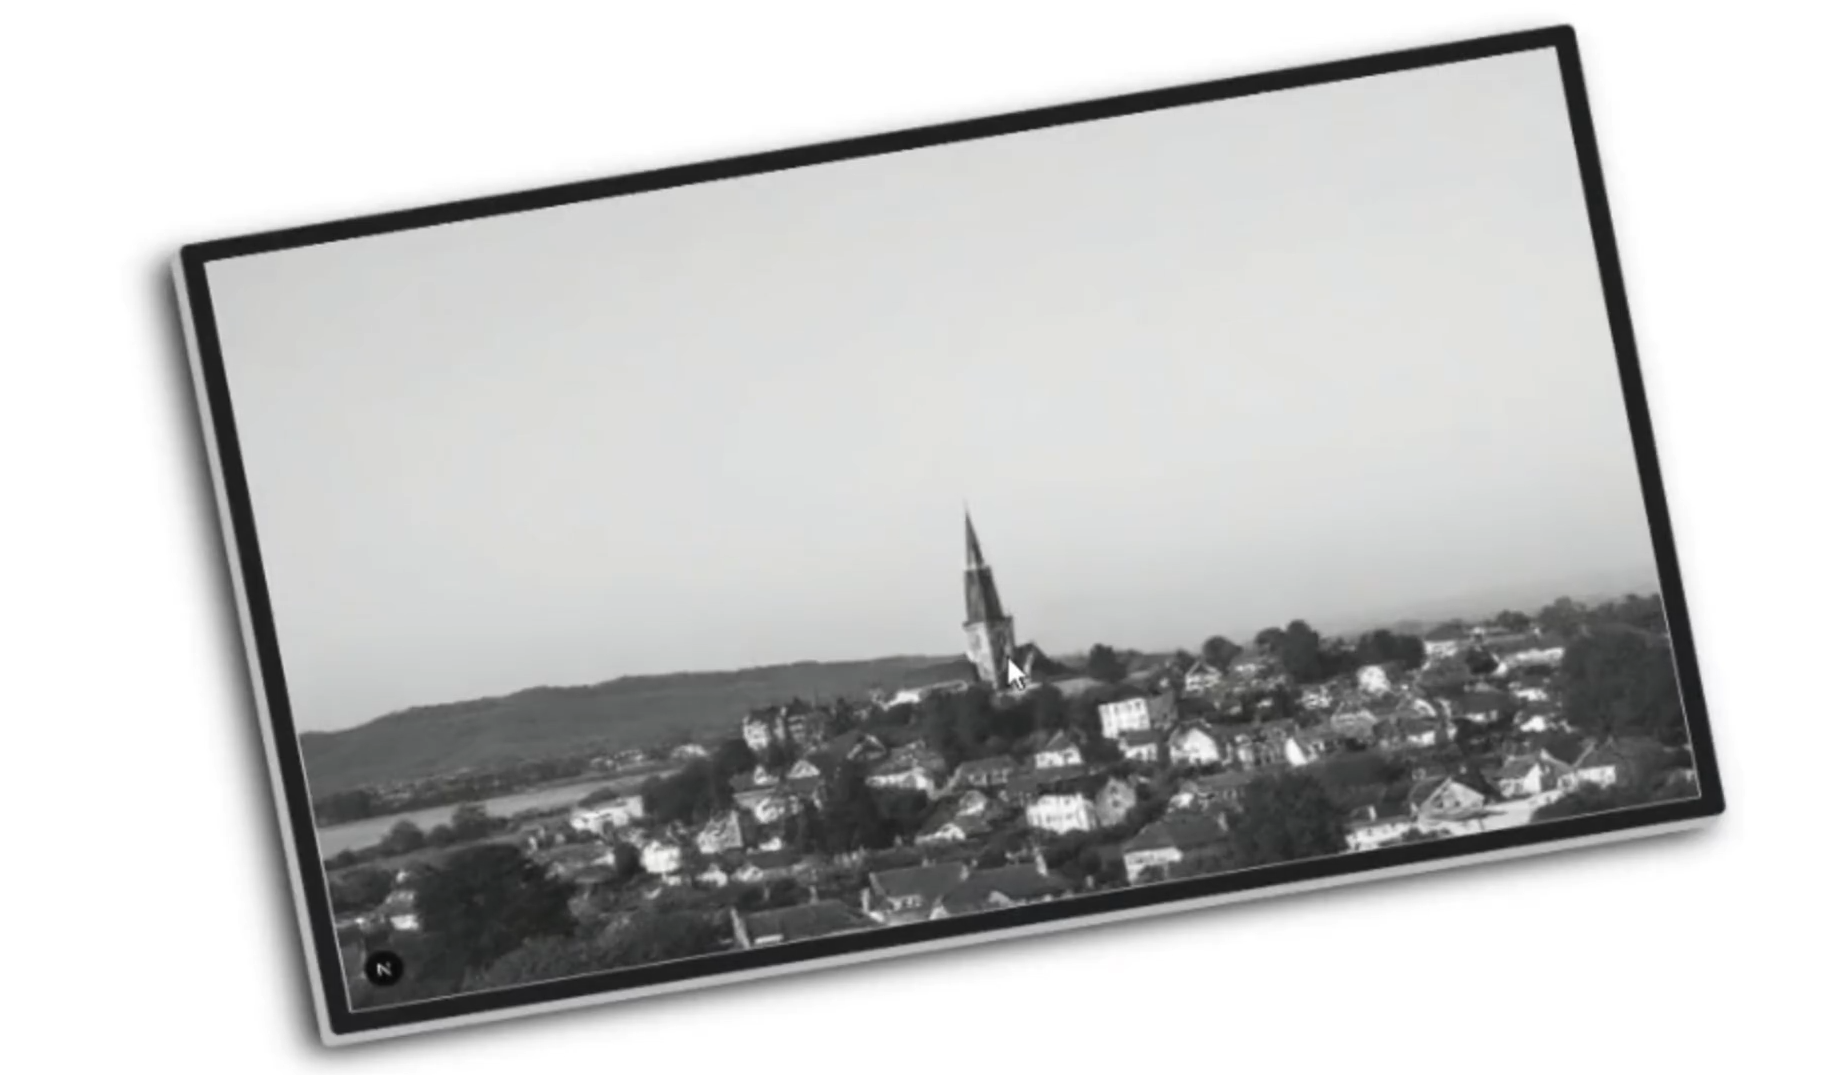
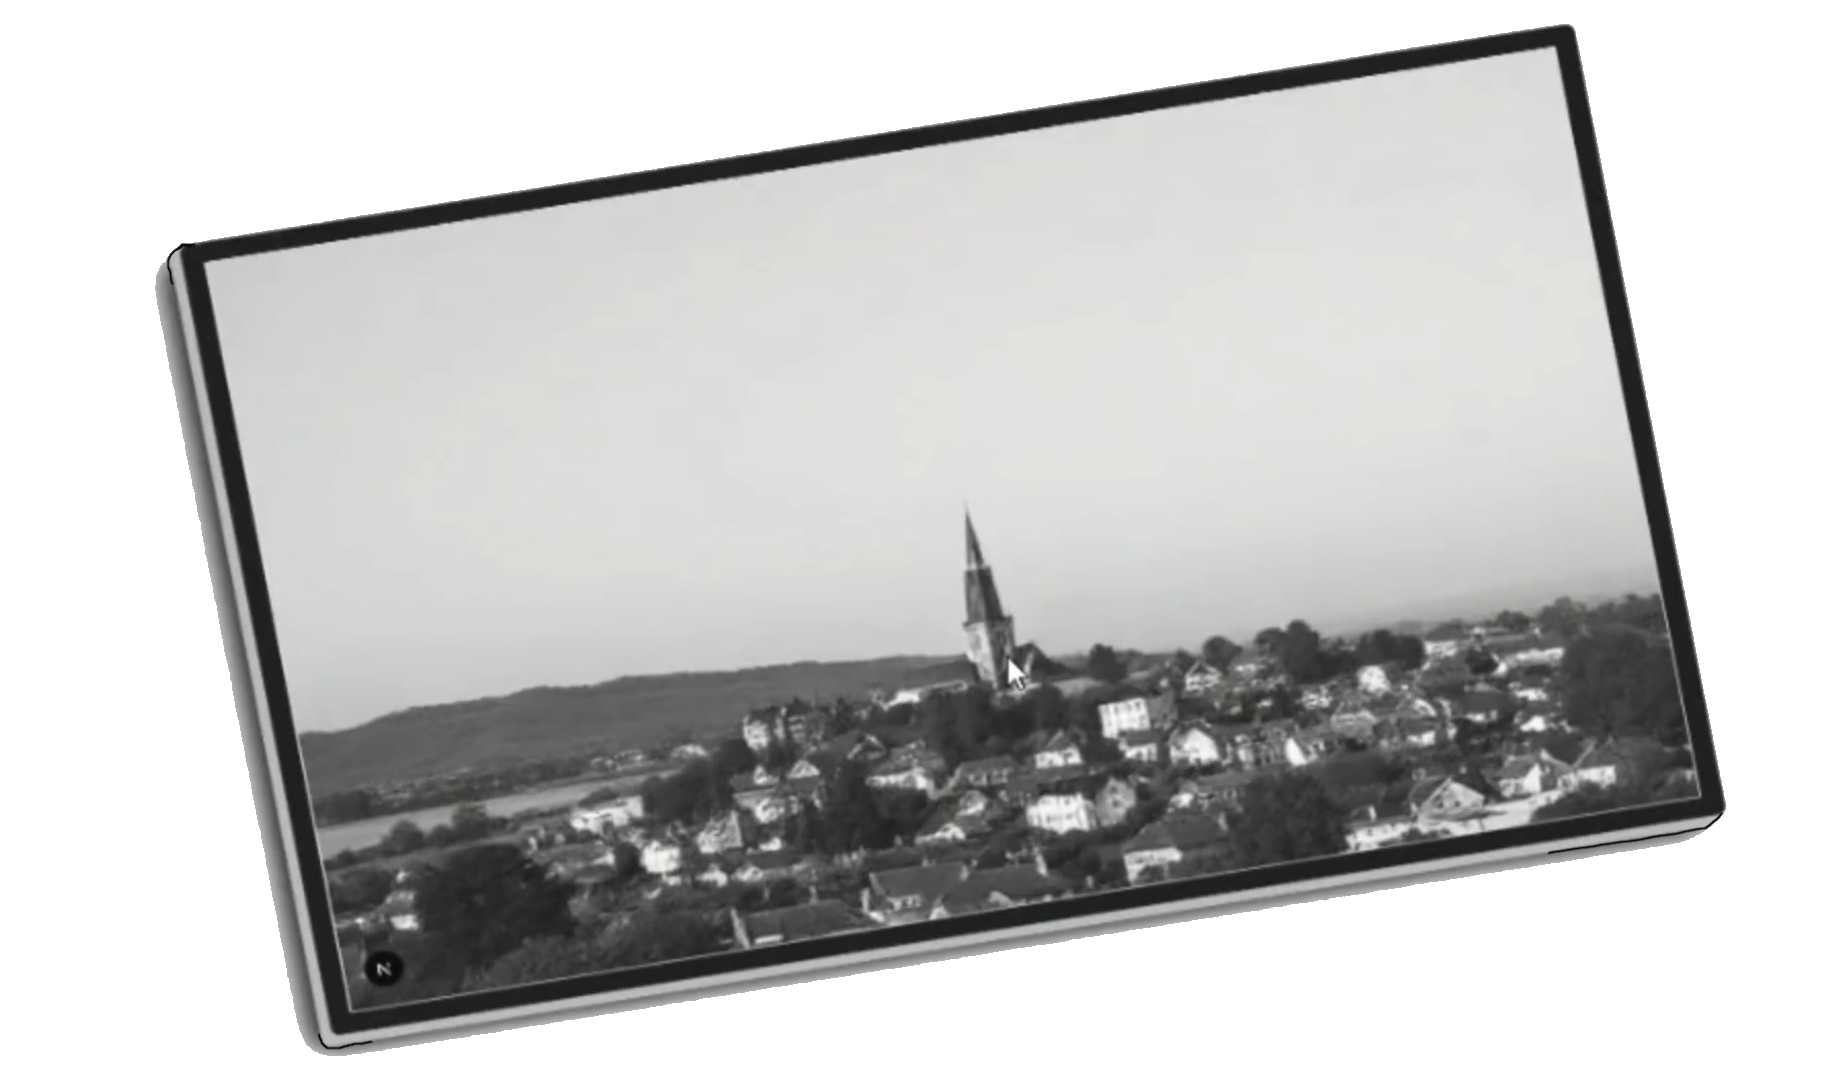
Updated aroundu overview image and combined tablet, desktop and mobile viewer components into a single component

diff --git a/src/features/projects/components/project.js b/src/features/projects/components/project.js
@@ -6,9 +6,7 @@ import Highlight from './highlight';
 import VimeoPlayer from './vimeoPlayer';
 import EndDescription from './endDescription'
 import BackToTop from '../../../Components/backToTop';
-import MobileViewer from './mobileViewer';
-import TabletViewer from './TabletViewer';
-import DesktopViewer from './DesktopViewer';
+import DeviceViewer from './DeviceViewer';
 
 const Project = () => {
     const { slug } = useParams();
@@ -191,15 +189,10 @@ const Project = () => {
                             </div>
                         </div>
                         <div className="device-viewer-container">
-                            {selectedDevice === 'mobile' && (
-                                <MobileViewer site={project.fields.links.link[1]} />
-                            )}
-                            {selectedDevice === 'tablet' && (
-                                <TabletViewer site={project.fields.links.link[1]} />
-                            )}
-                            {selectedDevice === 'desktop' && (
-                                <DesktopViewer site={project.fields.links.link[1]} />
-                            )}
+                            <DeviceViewer
+                                device={selectedDevice}
+                                site={project.fields.links.link[1]}
+                            />
                         </div>
                     </>
                 )}

diff --git a/src/features/home/components/inDevelopment.js b/src/features/home/components/inDevelopment.js
@@ -2,9 +2,7 @@ import { useState } from 'react';
 import '../../../assets/css/device-viewer.css';
 import '../../../assets/css/inDevelopment.css';
 import inDevelopmentData from '../../../data/inDevelopment.json';
-import MobileViewer from '../../projects/components/mobileViewer';
-import TabletViewer from '../../projects/components/TabletViewer';
-import DesktopViewer from '../../projects/components/DesktopViewer';
+import DeviceViewer from '../../projects/components/DeviceViewer';
 
 const InDevelopment = () => {
     const [selectedDevice, setSelectedDevice] = useState('desktop');
@@ -40,9 +38,7 @@ const InDevelopment = () => {
                         </button>
                     </div>
                     <div className="device-viewer-container">
-                        {selectedDevice === 'mobile' && <MobileViewer site={siteUrl} />}
-                        {selectedDevice === 'tablet' && <TabletViewer site={siteUrl} />}
-                        {selectedDevice === 'desktop' && <DesktopViewer site={siteUrl} />}
+                        <DeviceViewer device={selectedDevice} site={siteUrl} />
                     </div>
                 </div>
                 <div className="col-12 col-lg-4 order-1 order-lg-2 mb-4 mb-lg-0">

diff --git a/src/features/projects/components/cards.js b/src/features/projects/components/cards.js
@@ -21,14 +21,14 @@ const Cards = () => {
             <h3 className='tech_tag defaultCursor'>All Projects</h3>
             <div className='row grow'>
                 {visibleProjects.map((project, index) => (
-                        <Card
-                            key={index}
-                            slug={project.slug}
-                            title={project.fields.title}
-                            description={project.fields.shortDescription}
-                            links={project.fields.links}
-                            image={project.fields.overviewImage}
-                        />
+                    <Card
+                        key={index}
+                        slug={project.slug}
+                        title={project.fields.title}
+                        description={project.fields.shortDescription}
+                        links={project.fields.links}
+                        image={project.fields.overviewImage}
+                    />
                 ))}
             </div>
 

diff --git a/src/features/projects/components/DeviceViewer.js b/src/features/projects/components/DeviceViewer.js
@@ -1,0 +1,24 @@
+import '../../../assets/css/device-viewer.css';
+
+const deviceClassMap = {
+    mobile: 'phone',
+    tablet: 'tablet',
+    desktop: 'desktop',
+};
+
+const DeviceViewer = ({ device, site }) => {
+    const className = deviceClassMap[device] || 'desktop';
+    const title = `${className.charAt(0).toUpperCase() + className.slice(1)} Website Preview`;
+
+    return (
+        <section className="col-12">
+            <div id="wrapper" className="slideLeft">
+                <div className={`${className} view`}>
+                    <iframe src={site} title={title} />
+                </div>
+            </div>
+        </section>
+    );
+};
+
+export default DeviceViewer;

diff --git a/src/features/home/components/qualifications.js b/src/features/home/components/qualifications.js
@@ -6,7 +6,7 @@ const QualificationCard = ({ qualification }) => {
 
     return (
         <div className="qualification-card d-flex align-items-center gap-2 p-2 rounded mb-2">
-                <div className="qualification-logo d-flex align-items-center justify-content-center rounded">
+            <div className="qualification-logo d-flex align-items-center justify-content-center rounded">
                 <img
                     src={logoPath}
                     alt={`${qualification.fields.organisation} logo`}

diff --git a/src/features/projects/components/highlight.js b/src/features/projects/components/highlight.js
@@ -7,8 +7,8 @@ const Highlight = ({ index, title, description, image, mobileVersion, admin }) =
 
     const isEven = index % 2 === 0;
     const highlightClass = `mt-3 mb-3 ${isEven === false
-            ? 'slideLeft p-md-3 p-sm-0'
-            : 'alternateBg dynamicTheme mb-3 mt-3 p-md-3 p-sm-0 slideRight'
+        ? 'slideLeft p-md-3 p-sm-0'
+        : 'alternateBg dynamicTheme mb-3 mt-3 p-md-3 p-sm-0 slideRight'
         }`;
 
     // Event handler for the "Mobile Version" button click

diff --git a/src/features/projects/components/vimeoPlayer.js b/src/features/projects/components/vimeoPlayer.js
@@ -1,4 +1,4 @@
-import React, { useEffect, useRef } from 'react';
+import { useEffect, useRef } from 'react';
 import Vimeo from '@vimeo/player';
 import '../../../assets/css/vimeoPlayer.css';
 
